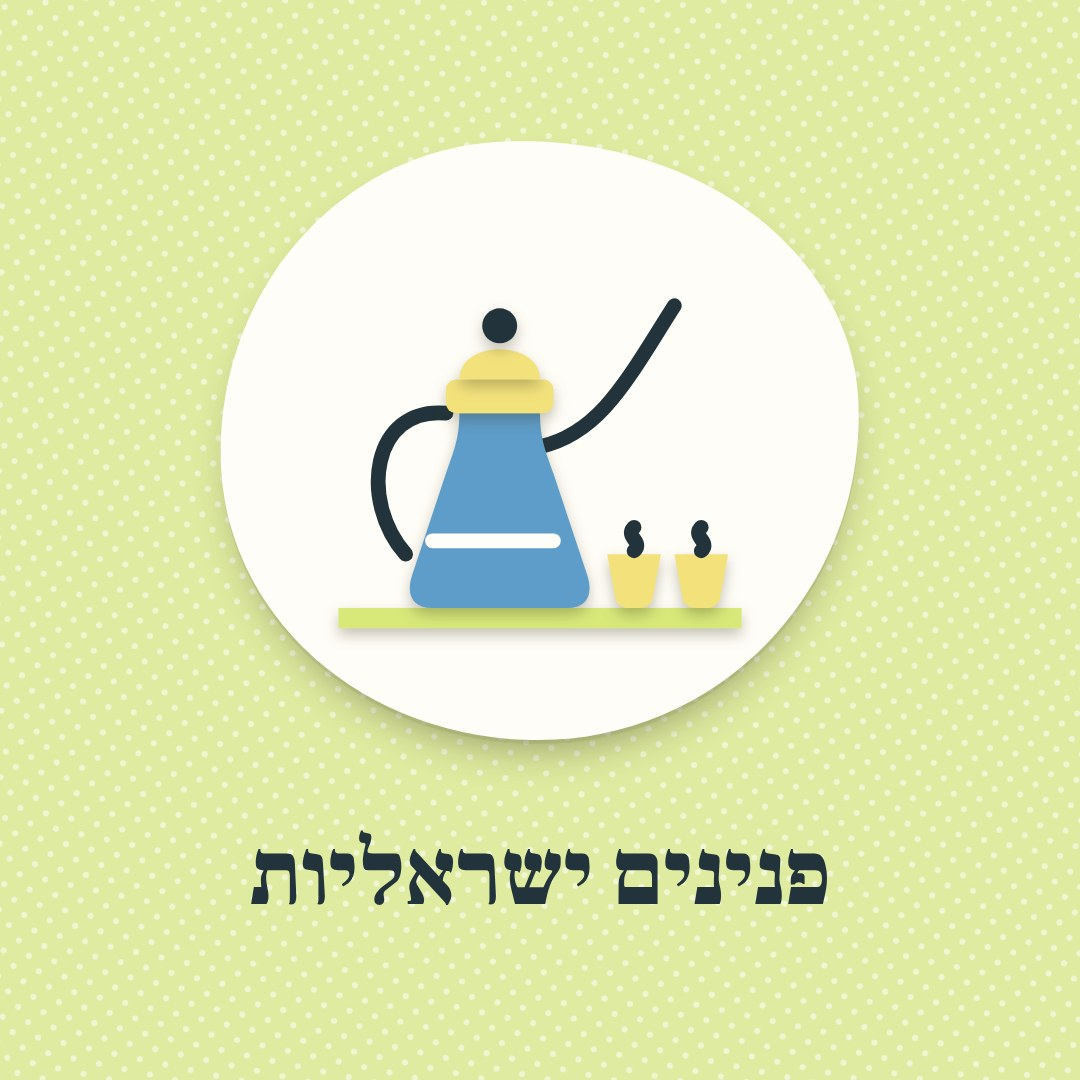
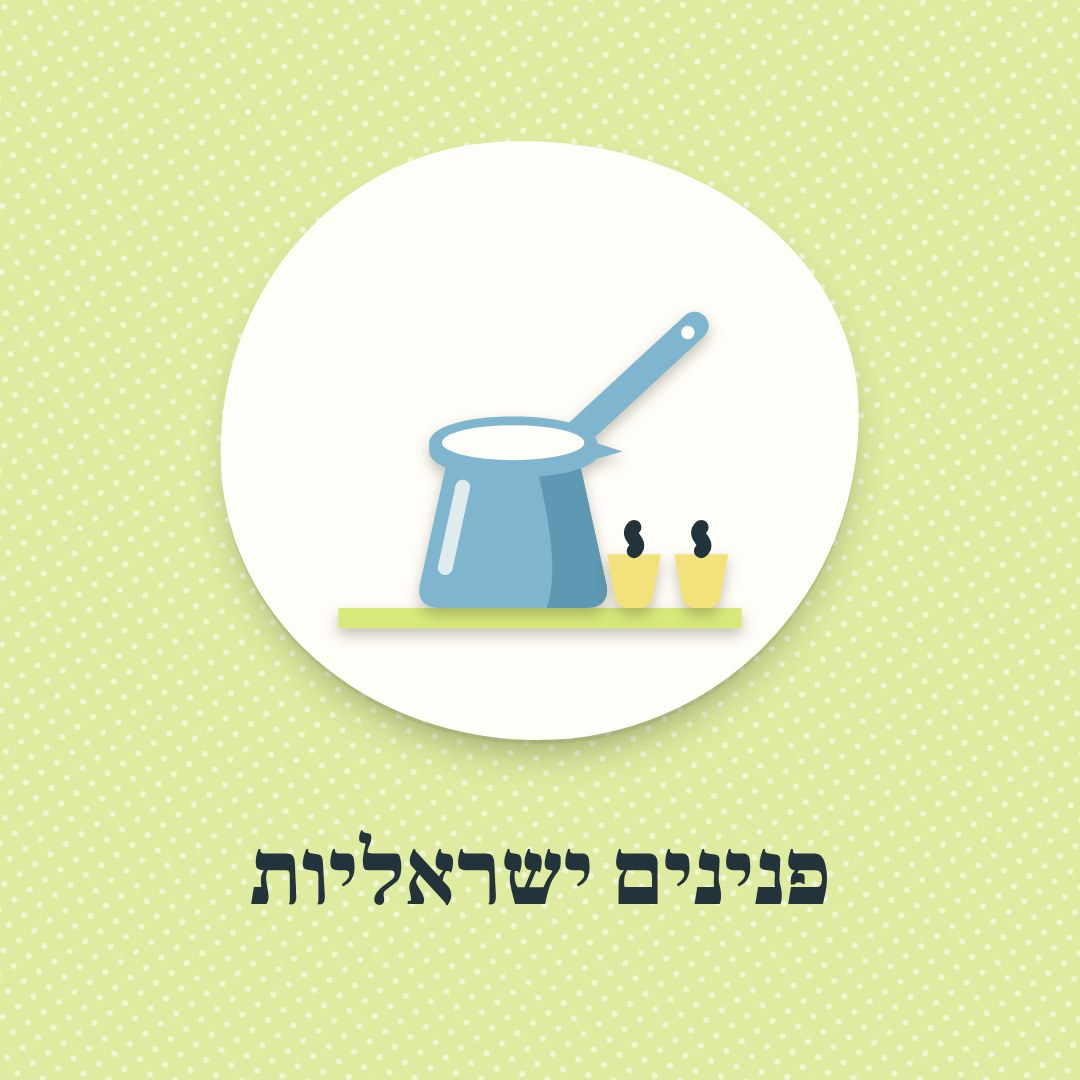
סיורים ומפגשים: פינג'אן אמייל ישראלי בתכלת
Claude-Session: https://claude.ai/code/session_01MUhBR3T7WXrNgRrJkwT1oe

Changed region(s): [[0.3361, 0.275, 0.6722, 0.5806]]

diff --git a/lib/illo.ts b/lib/illo.ts
@@ -7,7 +7,7 @@ coffee: `<path class="o" fill="none" d="M26 6c-3 3 3 5 0 9M33 4c-3 3 3 5 0 9M40 
 wine: `<path class="s o" d="M42 10h8v10c4 3 5 7 5 12v22c0 2-1 3-3 3H40c-2 0-3-1-3-3V32c0-5 1-9 5-12z"/><rect class="c o" x="39" y="34" width="14" height="12" rx="2"/><path class="o" d="M42 40h8"/><path class="c o" d="M10 12h22c0 12-3 20-11 20S10 24 10 12z"/><path class="n" d="M12 20h18c-1 6-4 10-9 10s-8-4-9-10z"/><path class="o" d="M21 32v18M13 55c0-3 4-5 8-5s8 2 8 5z"/>`,
 trailsign: `<path class="l o" d="M4 58h56"/><rect class="wd" x="29" y="26" width="6" height="32" rx="1.5"/><path class="wd" d="M8 13l48-3c2 0 3 1 3 3l1 17c0 2-1 3-3 3L10 35c-2 0-3-1-3-3L6 16c0-2 1-3 2-3z"/><path d="M11 17l43-2M12 29l44-2" stroke="#C99D68" stroke-width="1.2" fill="transparent" stroke-linecap="round"/><path class="or" d="M21 15.5h7l.4 14h-7z"/><path class="w" d="M28 15.3h7l.4 14h-7z"/><path class="tb" d="M35 15h7l.4 14h-7z"/>`,
 brushspoon: `<g transform="rotate(38 32 32)"><rect class="wd" x="29.5" y="26" width="5" height="34" rx="2.5"/><ellipse class="wd" cx="32" cy="15" rx="8.5" ry="11.5"/><ellipse class="wd2" cx="32" cy="15.5" rx="5" ry="8"/></g><g transform="rotate(-38 32 32)"><rect class="y" x="29.5" y="30" width="5" height="30" rx="2.5"/><rect class="c" x="28.5" y="21" width="7" height="10" rx="1"/><path class="n" d="M28.5 21c0-7 1.5-12 3.5-15 2 3 3.5 8 3.5 15z"/><path class="tb" d="M30.2 11c.5-2 1-3.5 1.8-5 .8 1.5 1.3 3 1.8 5z"/></g>`,
-finjan: `<path class="l" d="M2 57h60v3H2z"/><path class="o" fill="none" stroke-width="3.2" d="M32 33C41 31 45 23 52 12"/><path class="o" fill="none" stroke-width="2.8" d="M18 28C7 27 5 41 12 49"/><path class="tb" d="M14 57h22c3 0 4-2 3-5l-5-15c-1-3-2-5-2-9H20c0 4-1 6-2 9l-5 15c-1 3 0 5 3 5z"/><path fill="none" style="stroke:#FFFDF7" stroke-width="2" stroke-linecap="round" d="M16 47h18"/><rect class="y" x="18" y="23" width="16" height="5" rx="1.5"/><path class="y" d="M20 23c0-6 12-6 12 0z"/><circle class="n" cx="26" cy="15" r="2.6"/><path class="y" d="M42 49h8l-1.2 6.5c-.2 1-1 1.5-2 1.5h-1.6c-1 0-1.8-.5-2-1.5z"/><path class="y" d="M52 49h8l-1.2 6.5c-.2 1-1 1.5-2 1.5h-1.6c-1 0-1.8-.5-2-1.5z"/><path class="o" fill="none" d="M46 45c-1.5 1.5 1.5 2 0 3.5M56 45c-1.5 1.5 1.5 2 0 3.5"/>`,
+finjan: `<path class="l" d="M2 57h60v3H2z"/><g class="fj" style="filter:drop-shadow(0 1.2px 1px rgba(60,55,30,.3))"><path fill="#7FB5CE" style="stroke:#7FB5CE" stroke-width="4.2" stroke-linecap="round" d="M35 33.5L55 15"/><circle cx="54" cy="16" r="1" fill="#FFFDF7"/><path fill="#7FB5CE" d="M17 57h22c2.2 0 3.3-1.3 2.9-3.4L37.6 34H18.4L14.1 53.6c-.4 2.1.7 3.4 2.9 3.4z"/><path fill="#5F98B3" d="M31 34h6.6l4.3 19.6c.4 2.1-.7 3.4-2.9 3.4h-6c2-6 0-15-2-23z"/><path fill="#7FB5CE" d="M15.5 32.5c0-2.4 5.2-4 12.5-4s12.5 1.6 12.5 4l3.8 1.2-3.9 1.1c-1.4 1.7-6.2 2.8-12.4 2.8-7.3 0-12.5-1.6-12.5-4z"/><ellipse cx="28" cy="32.4" rx="10.6" ry="2.6" fill="#FFFDF7"/><path fill="none" style="stroke:#FFFDF7;stroke-opacity:.75" stroke-width="2" stroke-linecap="round" d="M20.5 39l-2.6 12"/></g><path class="y" d="M42 49h8l-1.2 6.5c-.2 1-1 1.5-2 1.5h-1.6c-1 0-1.8-.5-2-1.5z"/><path class="y" d="M52 49h8l-1.2 6.5c-.2 1-1 1.5-2 1.5h-1.6c-1 0-1.8-.5-2-1.5z"/><path class="o" fill="none" d="M46 45c-1.5 1.5 1.5 2 0 3.5M56 45c-1.5 1.5 1.5 2 0 3.5"/>`,
 speech: `<path class="y" d="M30 8h23c4 0 6 2 6 6v12c0 4-2 6-6 6h-2l2 7-9-7H30c-4 0-6-2-6-6V14c0-4 2-6 6-6z"/><path class="c" d="M10 21h25c4 0 6 2 6 6v14c0 4-2 6-6 6H23l-10 9 2-9h-5c-4 0-6-2-6-6V27c0-4 2-6 6-6z"/><circle class="n" cx="15" cy="34" r="2.3"/><circle class="n" cx="22.5" cy="34" r="2.3"/><circle class="n" cx="30" cy="34" r="2.3"/>`,
 tile: `<g transform="rotate(-6 32 32)"><rect class="c" x="7" y="7" width="50" height="50" rx="3"/><rect x="10" y="10" width="44" height="44" rx="1.5" fill="transparent" stroke="#5E9CC9" stroke-width="1.6"/><rect x="12.6" y="12.6" width="38.8" height="38.8" fill="transparent" stroke="#5E9CC9" stroke-width=".7"/><g transform="translate(10 10) rotate(0)"><path class="tb" d="M0 0h7.5a7.5 7.5 0 0 1-7.5 7.5z"/><circle class="y" cx="2.6" cy="2.6" r="1.6"/></g><g transform="translate(54 10) rotate(90)"><path class="tb" d="M0 0h7.5a7.5 7.5 0 0 1-7.5 7.5z"/><circle class="y" cx="2.6" cy="2.6" r="1.6"/></g><g transform="translate(54 54) rotate(180)"><path class="tb" d="M0 0h7.5a7.5 7.5 0 0 1-7.5 7.5z"/><circle class="y" cx="2.6" cy="2.6" r="1.6"/></g><g transform="translate(10 54) rotate(270)"><path class="tb" d="M0 0h7.5a7.5 7.5 0 0 1-7.5 7.5z"/><circle class="y" cx="2.6" cy="2.6" r="1.6"/></g><g transform="rotate(0 32 32)"><path class="tb" d="M32 30c-4-4-5-10 0-15 5 5 4 11 0 15z"/><path d="M32 28.5V18" stroke="#FFFDF7" stroke-width=".9" fill="transparent"/></g><g transform="rotate(45 32 32)"><path class="s" d="M32 29.5c-2.6-3-3-7 0-10 3 3 2.6 7 0 10z"/></g><g transform="rotate(90 32 32)"><path class="tb" d="M32 30c-4-4-5-10 0-15 5 5 4 11 0 15z"/><path d="M32 28.5V18" stroke="#FFFDF7" stroke-width=".9" fill="transparent"/></g><g transform="rotate(135 32 32)"><path class="s" d="M32 29.5c-2.6-3-3-7 0-10 3 3 2.6 7 0 10z"/></g><g transform="rotate(180 32 32)"><path class="tb" d="M32 30c-4-4-5-10 0-15 5 5 4 11 0 15z"/><path d="M32 28.5V18" stroke="#FFFDF7" stroke-width=".9" fill="transparent"/></g><g transform="rotate(225 32 32)"><path class="s" d="M32 29.5c-2.6-3-3-7 0-10 3 3 2.6 7 0 10z"/></g><g transform="rotate(270 32 32)"><path class="tb" d="M32 30c-4-4-5-10 0-15 5 5 4 11 0 15z"/><path d="M32 28.5V18" stroke="#FFFDF7" stroke-width=".9" fill="transparent"/></g><g transform="rotate(315 32 32)"><path class="s" d="M32 29.5c-2.6-3-3-7 0-10 3 3 2.6 7 0 10z"/></g><circle class="y" cx="32" cy="32" r="4.6"/><circle class="tb" cx="32" cy="32" r="1.8"/><circle class="y" cx="32" cy="17" r="1.5" transform="rotate(45 32 32)"/><circle class="y" cx="32" cy="17" r="1.5" transform="rotate(135 32 32)"/><circle class="y" cx="32" cy="17" r="1.5" transform="rotate(225 32 32)"/><circle class="y" cx="32" cy="17" r="1.5" transform="rotate(315 32 32)"/></g>`,
 mashrabiya: `<circle class="wd" cx="32" cy="32" r="27"/><circle class="c" cx="32" cy="32" r="22"/><path d="M44.3 13.8L50.2 19.7 M30.4 10.1L53.9 33.6 M22.4 12.2L51.8 41.6 M16.4 16.4L47.6 47.6 M12.2 22.4L41.6 51.8 M10.1 30.4L33.6 53.9 M13.8 44.3L19.7 50.2 M13.8 19.7L19.7 13.8 M10.1 33.6L33.6 10.1 M12.2 41.6L41.6 12.2 M16.4 47.6L47.6 16.4 M22.4 51.8L51.8 22.4 M30.4 53.9L53.9 30.4 M44.3 50.2L50.2 44.3" stroke="#B88A55" stroke-width="2.4" fill="transparent" stroke-linecap="round"/><circle class="wd2" cx="37.1" cy="16.7" r="2.1"/><circle class="wd2" cx="42.2" cy="21.8" r="2.1"/><circle class="wd2" cx="47.3" cy="26.9" r="2.1"/><circle class="wd2" cx="26.9" cy="16.7" r="2.1"/><circle class="wd2" cx="32.0" cy="21.8" r="2.1"/><circle class="wd2" cx="37.1" cy="26.9" r="2.1"/><circle class="wd2" cx="42.2" cy="32.0" r="2.1"/><circle class="wd2" cx="47.3" cy="37.1" r="2.1"/><circle class="wd2" cx="21.8" cy="21.8" r="2.1"/><circle class="wd2" cx="26.9" cy="26.9" r="2.1"/><circle class="wd2" cx="32.0" cy="32.0" r="2.1"/><circle class="wd2" cx="37.1" cy="37.1" r="2.1"/><circle class="wd2" cx="42.2" cy="42.2" r="2.1"/><circle class="wd2" cx="16.7" cy="26.9" r="2.1"/><circle class="wd2" cx="21.8" cy="32.0" r="2.1"/><circle class="wd2" cx="26.9" cy="37.1" r="2.1"/><circle class="wd2" cx="32.0" cy="42.2" r="2.1"/><circle class="wd2" cx="37.1" cy="47.3" r="2.1"/><circle class="wd2" cx="16.7" cy="37.1" r="2.1"/><circle class="wd2" cx="21.8" cy="42.2" r="2.1"/><circle class="wd2" cx="26.9" cy="47.3" r="2.1"/><circle class="y" cx="32" cy="32" r="4.2"/><circle cx="32" cy="32" r="24.5" fill="transparent" stroke="#C99D68" stroke-width="1.2"/>`,
